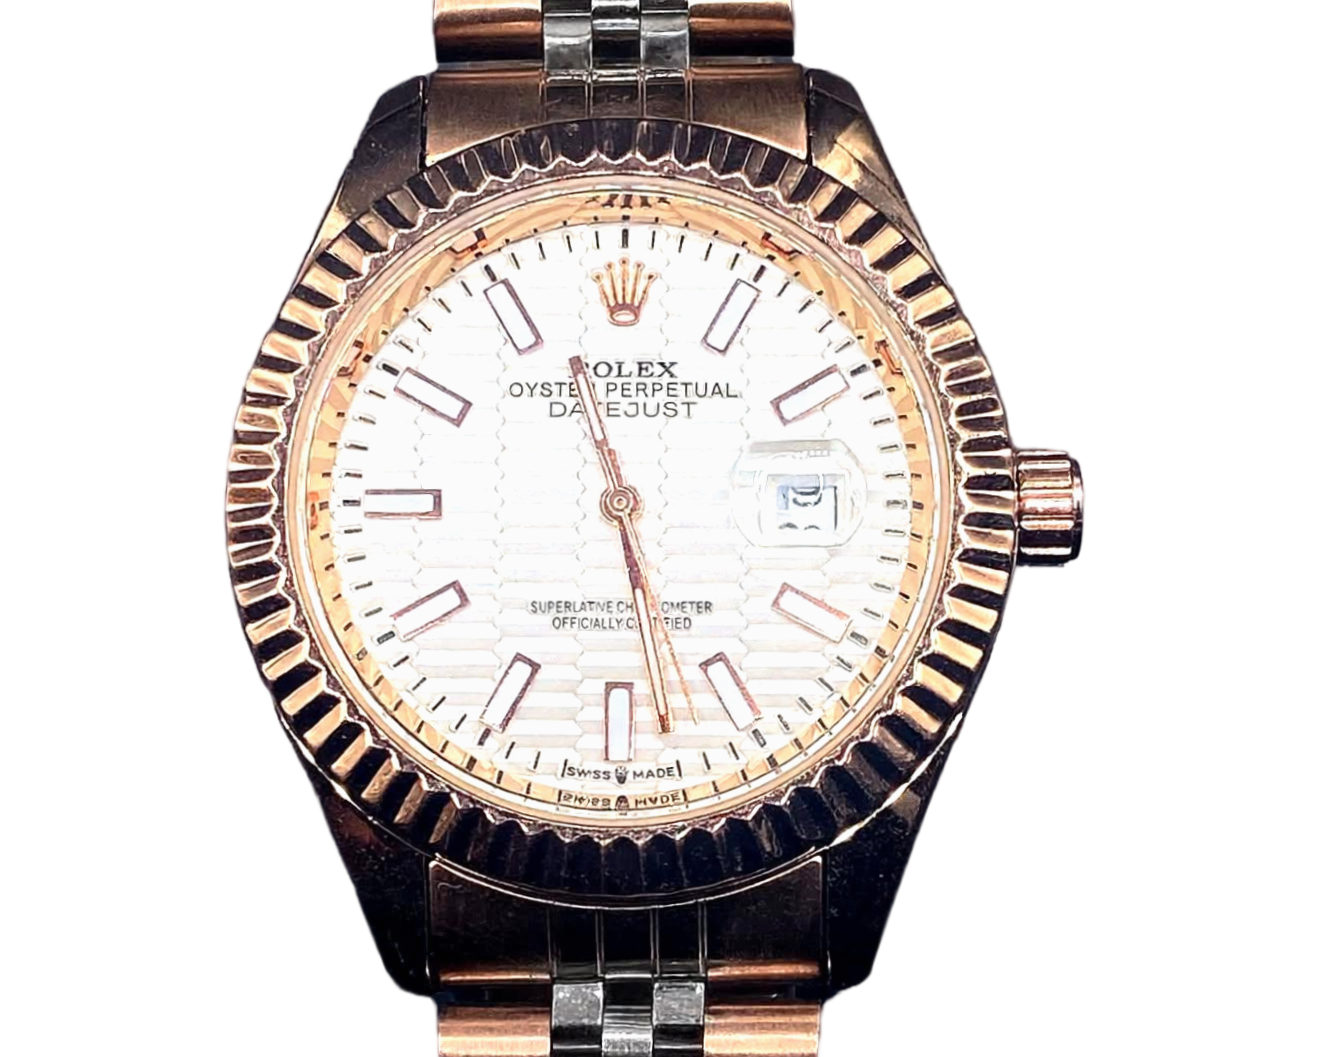
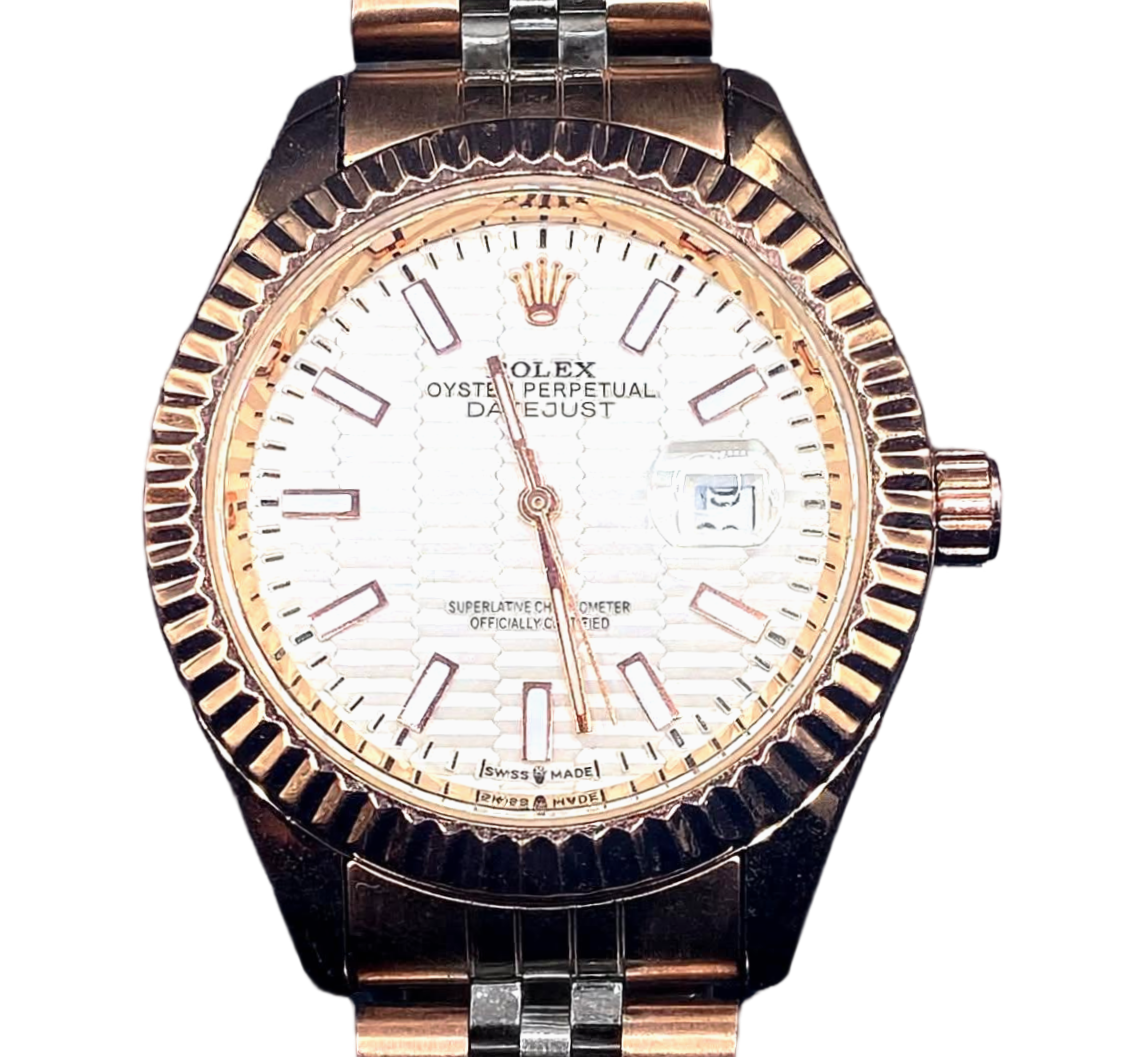
Modified watch size

Changed region(s): [[0.1232, 0.0, 0.8935, 1.0]]

diff --git a/app/virtual-try-on/hooks/useHandTracking.ts b/app/virtual-try-on/hooks/useHandTracking.ts
@@ -208,14 +208,32 @@ export function useHandTracking(
       // Scale — use cross-wrist width (index MCP ↔ pinky MCP) as a depth-
       // and size-aware reference. The hand naturally appears larger when
       // closer to the camera, so the watch scales automatically.
-      // Convert each axis to pixel space BEFORE computing distance so the
-      // result is orientation-independent (fixes inflated scale when
-      // horizontal — normalised y is larger than x on non-square video).
-      const dxPx = (indexMCP.x - pinkyMCP.x) * cw;
-      const dyPx = (indexMCP.y - pinkyMCP.y) * ch;
+      //
+      // Convert normalised coords to TRUE on-screen pixels via the same
+      // cover-scale the CSS `object-fit: cover` applies. Using the raw
+      // container dimensions (cw/ch) inflates one axis when the container
+      // and video have different aspect ratios, making the watch too big
+      // in the direction that "overflows".
+      const coverScale = Math.max(cw / video.videoWidth, ch / video.videoHeight);
+      const dxPx = (indexMCP.x - pinkyMCP.x) * video.videoWidth * coverScale;
+      const dyPx = (indexMCP.y - pinkyMCP.y) * video.videoHeight * coverScale;
       const crossWristWidth = Math.sqrt(dxPx * dxPx + dyPx * dyPx);
-      const rawScale = (crossWristWidth / WATCH_OVERLAY_SIZE) * 1.6 * uScale;
-      const scale = clamp(rawScale, 0.4, 2.5);
+
+      // Dampened scaling — a pure linear ratio makes the watch balloon when
+      // the hand is close to the camera.  We use a sqrt curve above a
+      // reference width to compress the growth at close range while keeping
+      // far-range (small widths) essentially linear.
+      //
+      //   referenceWidth ≈ the cross-wrist pixel width at a "normal" viewing
+      //   distance.  Below it the ratio grows linearly; above it, growth is
+      //   progressively softened via sqrt.
+      const referenceWidth = 100;
+      const ratio = crossWristWidth / referenceWidth;
+      const dampedRatio = ratio <= 1
+        ? ratio                                // linear at normal/far range
+        : 1 + Math.sqrt(ratio - 1);            // sqrt compression at close range
+      const rawScale = (dampedRatio * referenceWidth / WATCH_OVERLAY_SIZE) * 1.35 * uScale;
+      const scale = clamp(rawScale, 0.4, 2.0);
 
       // Apply EMA smoothing
       if (!smooth.initialised) {

diff --git a/app/virtual-try-on/lib/tryOnStore.ts b/app/virtual-try-on/lib/tryOnStore.ts
@@ -77,7 +77,7 @@ export function resetLiveFrame(): void {
 type TryOnState = {
   // State
   selectedWatch: TryOnProduct | null;
-  watchScale: number;               // 0.6 – 1.4, default 1.0
+  watchScale: number;               // 0.6 – 1.4, default 1.0 (temporary testing slider)
   trackingStatus: TrackingStatus;
   isCameraReady: boolean;
   isFrontCamera: boolean;
@@ -101,7 +101,7 @@ type TryOnState = {
 
 const INITIAL_STATE = {
   selectedWatch: null as TryOnProduct | null,
-  watchScale: 1.0,
+  watchScale: 0.75,
   trackingStatus: "initializing" as TrackingStatus,
   isCameraReady: false,
   isFrontCamera: false,

diff --git a/app/virtual-try-on/components/TryOnControls.tsx b/app/virtual-try-on/components/TryOnControls.tsx
@@ -115,7 +115,7 @@ export default function TryOnControls({ products }: TryOnControlsProps) {
           })}
         </div>
 
-        {/* ── Size slider ── */}
+        {/* ── Size slider (temporary — for testing) ── */}
         <div className="tryon-size-control">
           <label htmlFor="tryon-size" className="tryon-size-label">
             Size
